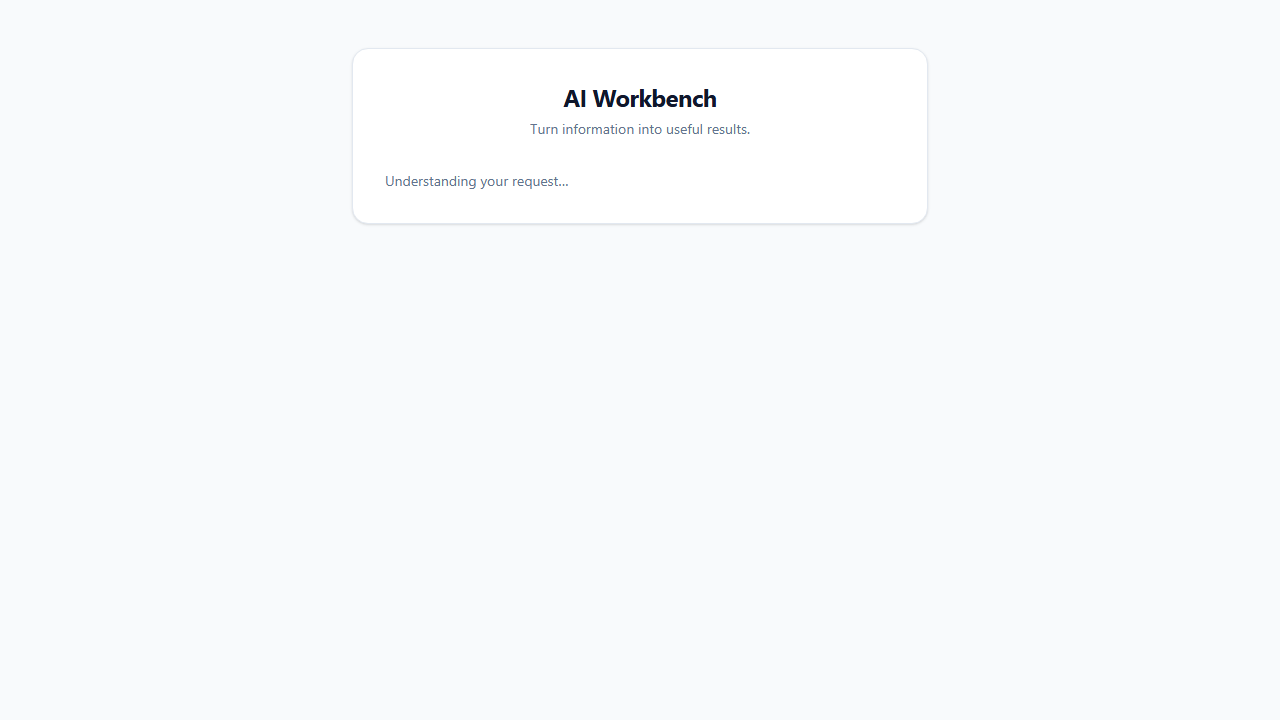
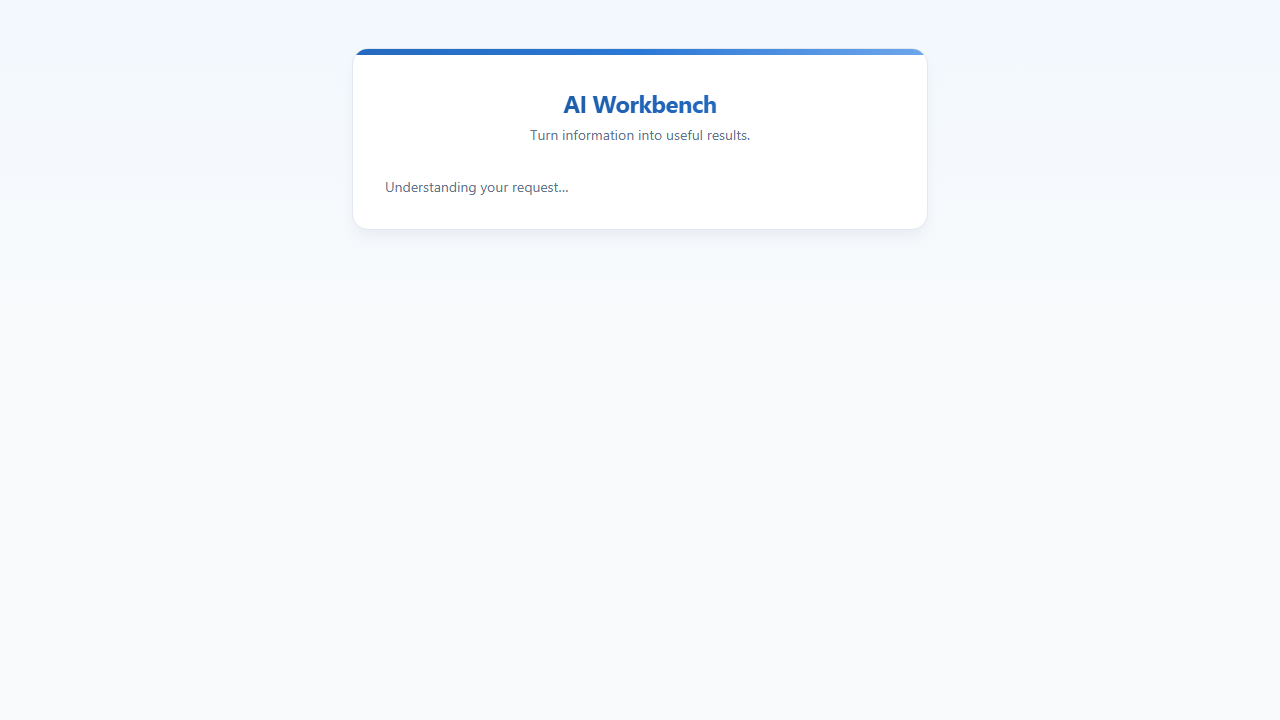
Give the frontend a real brand color identity Was all-neutral slate/white before, no color anywhere except the chart. Added a brand blue scale (anchored on the same #2a78d6 already used as the chart's series-1 color, via Tailwind v4's @theme) and applied it across the app: gradient title and top acc

Changed region(s): [[0.4062, 0.1222, 0.5938, 0.2139], [0.2812, 0.0611, 0.7188, 0.0917], [0.2812, 0.2444, 0.4375, 0.275]]

diff --git a/frontend/src/components/ResultView.tsx b/frontend/src/components/ResultView.tsx
@@ -1,3 +1,4 @@
+import type { ReactNode } from "react";
 import type { WorkflowResult } from "../types";
 import { Chart } from "./Chart";
 import { DataTable } from "./DataTable";
@@ -8,20 +9,32 @@ interface ResultViewProps {
   onReset: () => void;
 }
 
+function SectionHeading({ children }: { children: ReactNode }) {
+  return (
+    <h3 className="flex items-center gap-1.5 text-sm font-semibold tracking-wide text-brand-600 uppercase">
+      <span className="h-3.5 w-1 rounded-full bg-brand-500" />
+      {children}
+    </h3>
+  );
+}
+
 export function ResultView({ result, workflowSteps, onReset }: ResultViewProps) {
   return (
     <div className="space-y-6">
       <div>
-        <h2 className="text-sm font-semibold tracking-wide text-slate-400 uppercase">Result</h2>
+        <SectionHeading>Result</SectionHeading>
         <p className="mt-1.5 text-sm text-slate-700">{result.summary}</p>
       </div>
 
       {result.findings.length > 0 && (
         <div>
-          <h3 className="text-sm font-semibold tracking-wide text-slate-400 uppercase">Key findings</h3>
-          <ul className="mt-1.5 list-disc space-y-1 pl-5 text-sm text-slate-700">
+          <SectionHeading>Key findings</SectionHeading>
+          <ul className="mt-1.5 space-y-1.5 text-sm text-slate-700">
             {result.findings.map((finding, i) => (
-              <li key={i}>{finding}</li>
+              <li key={i} className="flex gap-2">
+                <span className="mt-1.5 h-1.5 w-1.5 shrink-0 rounded-full bg-brand-400" />
+                {finding}
+              </li>
             ))}
           </ul>
         </div>
@@ -29,7 +42,7 @@ export function ResultView({ result, workflowSteps, onReset }: ResultViewProps) 
 
       {result.table && (
         <div>
-          <h3 className="text-sm font-semibold tracking-wide text-slate-400 uppercase">{result.table.title}</h3>
+          <SectionHeading>{result.table.title}</SectionHeading>
           <div className="mt-1.5">
             <DataTable table={result.table} />
           </div>
@@ -38,7 +51,7 @@ export function ResultView({ result, workflowSteps, onReset }: ResultViewProps) 
 
       {result.chart && (
         <div>
-          <h3 className="text-sm font-semibold tracking-wide text-slate-400 uppercase">Visualisation</h3>
+          <SectionHeading>Visualisation</SectionHeading>
           <div className="mt-1.5">
             <Chart chart={result.chart} />
           </div>
@@ -46,7 +59,7 @@ export function ResultView({ result, workflowSteps, onReset }: ResultViewProps) 
       )}
 
       <div>
-        <h3 className="text-sm font-semibold tracking-wide text-slate-400 uppercase">Workflow used</h3>
+        <SectionHeading>Workflow used</SectionHeading>
         <ol className="mt-1.5 list-decimal space-y-1 pl-5 text-sm text-slate-500">
           {workflowSteps.map((step, i) => (
             <li key={i}>{step}</li>
@@ -56,7 +69,7 @@ export function ResultView({ result, workflowSteps, onReset }: ResultViewProps) 
 
       <button
         onClick={onReset}
-        className="text-sm font-medium text-slate-500 underline decoration-slate-300 underline-offset-2 hover:text-slate-700"
+        className="text-sm font-medium text-brand-600 underline decoration-brand-200 underline-offset-2 hover:text-brand-700"
       >
         Start a new request
       </button>

diff --git a/frontend/src/App.tsx b/frontend/src/App.tsx
@@ -49,41 +49,46 @@ function App() {
 
   return (
     <div className="min-h-screen px-4 py-12">
-      <div className="mx-auto max-w-xl rounded-2xl border border-slate-200 bg-white p-8 shadow-sm">
-        <div className="text-center">
-          <h1 className="text-2xl font-bold tracking-tight text-slate-900">AI Workbench</h1>
-          <p className="mt-1.5 text-sm text-slate-500">Turn information into useful results.</p>
+      <div className="mx-auto max-w-xl overflow-hidden rounded-2xl border border-slate-200 bg-white shadow-lg shadow-slate-200/60">
+        <div className="h-1.5 bg-gradient-to-r from-brand-600 via-brand-500 to-brand-300" />
+        <div className="p-8">
+          <div className="text-center">
+            <h1 className="bg-gradient-to-r from-brand-700 to-brand-500 bg-clip-text text-2xl font-bold tracking-tight text-transparent">
+              AI Workbench
+            </h1>
+            <p className="mt-1.5 text-sm text-slate-500">Turn information into useful results.</p>
+          </div>
+
+          {(status === "idle" || status === "error") && (
+            <div className="mt-8">
+              <Dropzone files={files} onFilesAdded={(newFiles) => setFiles((f) => [...f, ...newFiles])} />
+              <GoalInput
+                goal={goal}
+                onGoalChange={setGoal}
+                onGenerate={handleGenerate}
+                disabled={!canGenerate}
+                isBusy={false}
+              />
+              {status === "error" && error && <p className="mt-3 text-sm text-red-600">{error}</p>}
+            </div>
+          )}
+
+          {(status === "planning" || status === "running") && (
+            <div className="mt-8">
+              {status === "planning" ? (
+                <p className="text-sm text-slate-500">Understanding your request…</p>
+              ) : (
+                <ProgressChecklist steps={planSteps} done={executeDone} />
+              )}
+            </div>
+          )}
+
+          {status === "done" && result && (
+            <div className="mt-8">
+              <ResultView result={result} workflowSteps={planSteps} onReset={handleReset} />
+            </div>
+          )}
         </div>
-
-        {(status === "idle" || status === "error") && (
-          <div className="mt-8">
-            <Dropzone files={files} onFilesAdded={(newFiles) => setFiles((f) => [...f, ...newFiles])} />
-            <GoalInput
-              goal={goal}
-              onGoalChange={setGoal}
-              onGenerate={handleGenerate}
-              disabled={!canGenerate}
-              isBusy={false}
-            />
-            {status === "error" && error && <p className="mt-3 text-sm text-red-600">{error}</p>}
-          </div>
-        )}
-
-        {(status === "planning" || status === "running") && (
-          <div className="mt-8">
-            {status === "planning" ? (
-              <p className="text-sm text-slate-500">Understanding your request…</p>
-            ) : (
-              <ProgressChecklist steps={planSteps} done={executeDone} />
-            )}
-          </div>
-        )}
-
-        {status === "done" && result && (
-          <div className="mt-8">
-            <ResultView result={result} workflowSteps={planSteps} onReset={handleReset} />
-          </div>
-        )}
       </div>
     </div>
   );

diff --git a/frontend/src/components/GoalInput.tsx b/frontend/src/components/GoalInput.tsx
@@ -17,12 +17,12 @@ export function GoalInput({ goal, onGoalChange, onGenerate, disabled, isBusy }: 
         onChange={(e) => onGoalChange(e.target.value)}
         placeholder="Compare the two months and find products with a significant sales decline…"
         rows={3}
-        className="mt-1.5 w-full resize-none rounded-lg border border-slate-300 bg-white px-3 py-2 text-sm text-slate-900 placeholder:text-slate-400 focus:border-slate-500 focus:outline-none"
+        className="mt-1.5 w-full resize-none rounded-lg border border-slate-300 bg-white px-3 py-2 text-sm text-slate-900 placeholder:text-slate-400 focus:border-brand-500 focus:ring-2 focus:ring-brand-100 focus:outline-none"
       />
       <button
         onClick={onGenerate}
         disabled={disabled || isBusy}
-        className="mt-3 w-full rounded-lg bg-slate-900 px-4 py-2.5 text-sm font-semibold text-white transition-colors hover:bg-slate-700 disabled:cursor-not-allowed disabled:bg-slate-300"
+        className="mt-3 w-full rounded-lg bg-gradient-to-r from-brand-600 to-brand-500 px-4 py-2.5 text-sm font-semibold text-white shadow-sm shadow-brand-500/30 transition-colors hover:from-brand-700 hover:to-brand-600 disabled:cursor-not-allowed disabled:bg-none disabled:bg-slate-300 disabled:shadow-none"
       >
         {isBusy ? "Working…" : "Generate Result"}
       </button>

diff --git a/frontend/src/components/Dropzone.tsx b/frontend/src/components/Dropzone.tsx
@@ -45,7 +45,7 @@ export function Dropzone({ files, onFilesAdded }: DropzoneProps) {
         }}
         onClick={() => inputRef.current?.click()}
         className={`cursor-pointer rounded-xl border-2 border-dashed p-8 text-center transition-colors ${
-          isDragging ? "border-slate-900 bg-slate-100" : "border-slate-300 bg-white hover:border-slate-400"
+          isDragging ? "border-brand-500 bg-brand-50" : "border-slate-300 bg-white hover:border-brand-300 hover:bg-brand-50/40"
         }`}
       >
         <input
@@ -69,10 +69,10 @@ export function Dropzone({ files, onFilesAdded }: DropzoneProps) {
           {files.map((f) => (
             <li
               key={f.file_id}
-              className="flex items-center gap-1.5 rounded-full bg-slate-100 px-3 py-1 text-xs text-slate-700"
+              className="flex items-center gap-1.5 rounded-full bg-brand-50 px-3 py-1 text-xs text-brand-700"
             >
               <span className="font-medium">{f.filename}</span>
-              <span className="text-slate-400">{TYPE_LABEL[f.file_type] ?? f.file_type}</span>
+              <span className="text-brand-400">{TYPE_LABEL[f.file_type] ?? f.file_type}</span>
             </li>
           ))}
         </ul>

diff --git a/frontend/src/components/DataTable.tsx b/frontend/src/components/DataTable.tsx
@@ -12,7 +12,7 @@ export function DataTable({ table }: { table: TableSpec }) {
   return (
     <div className="overflow-x-auto rounded-lg border border-slate-200">
       <table className="w-full text-left text-sm">
-        <thead className="bg-slate-50 text-xs tracking-wide text-slate-500 uppercase">
+        <thead className="bg-brand-50 text-xs tracking-wide text-brand-700 uppercase">
           <tr>
             {table.columns.map((col) => (
               <th key={col} className="px-4 py-2.5 font-medium">
@@ -23,7 +23,7 @@ export function DataTable({ table }: { table: TableSpec }) {
         </thead>
         <tbody className="divide-y divide-slate-100">
           {table.rows.map((row, i) => (
-            <tr key={i} className="text-slate-700">
+            <tr key={i} className="text-slate-700 hover:bg-brand-50/40">
               {table.columns.map((col) => (
                 <td key={col} className="px-4 py-2.5 tabular-nums">
                   {formatCell(row[col])}

diff --git a/frontend/src/index.css b/frontend/src/index.css
@@ -1,5 +1,21 @@
 @import "tailwindcss";
 
+/* Brand scale anchored on the same blue used as the chart's series-1 color
+   (see Chart.tsx / the dataviz skill's validated categorical palette), so the
+   UI chrome and the data visualisations read as one coherent system. */
+@theme {
+  --color-brand-50: #f2f8fe;
+  --color-brand-100: #cde2fb;
+  --color-brand-200: #9ec5f4;
+  --color-brand-300: #6da7ec;
+  --color-brand-400: #3987e5;
+  --color-brand-500: #2a78d6;
+  --color-brand-600: #256abf;
+  --color-brand-700: #184f95;
+  --color-brand-900: #0d366b;
+}
+
 body {
-  background-color: #f8fafc;
+  background: linear-gradient(180deg, var(--color-brand-50) 0%, #f8fafc 320px, #f8fafc 100%);
+  min-height: 100vh;
 }

diff --git a/frontend/src/components/ProgressChecklist.tsx b/frontend/src/components/ProgressChecklist.tsx
@@ -31,7 +31,7 @@ export function ProgressChecklist({ steps, done }: ProgressChecklistProps) {
                 isDone
                   ? "bg-emerald-500 text-white"
                   : isActive
-                    ? "animate-pulse bg-slate-300 text-slate-600"
+                    ? "animate-pulse bg-brand-200 text-brand-700"
                     : "bg-slate-100 text-slate-300"
               }`}
             >
